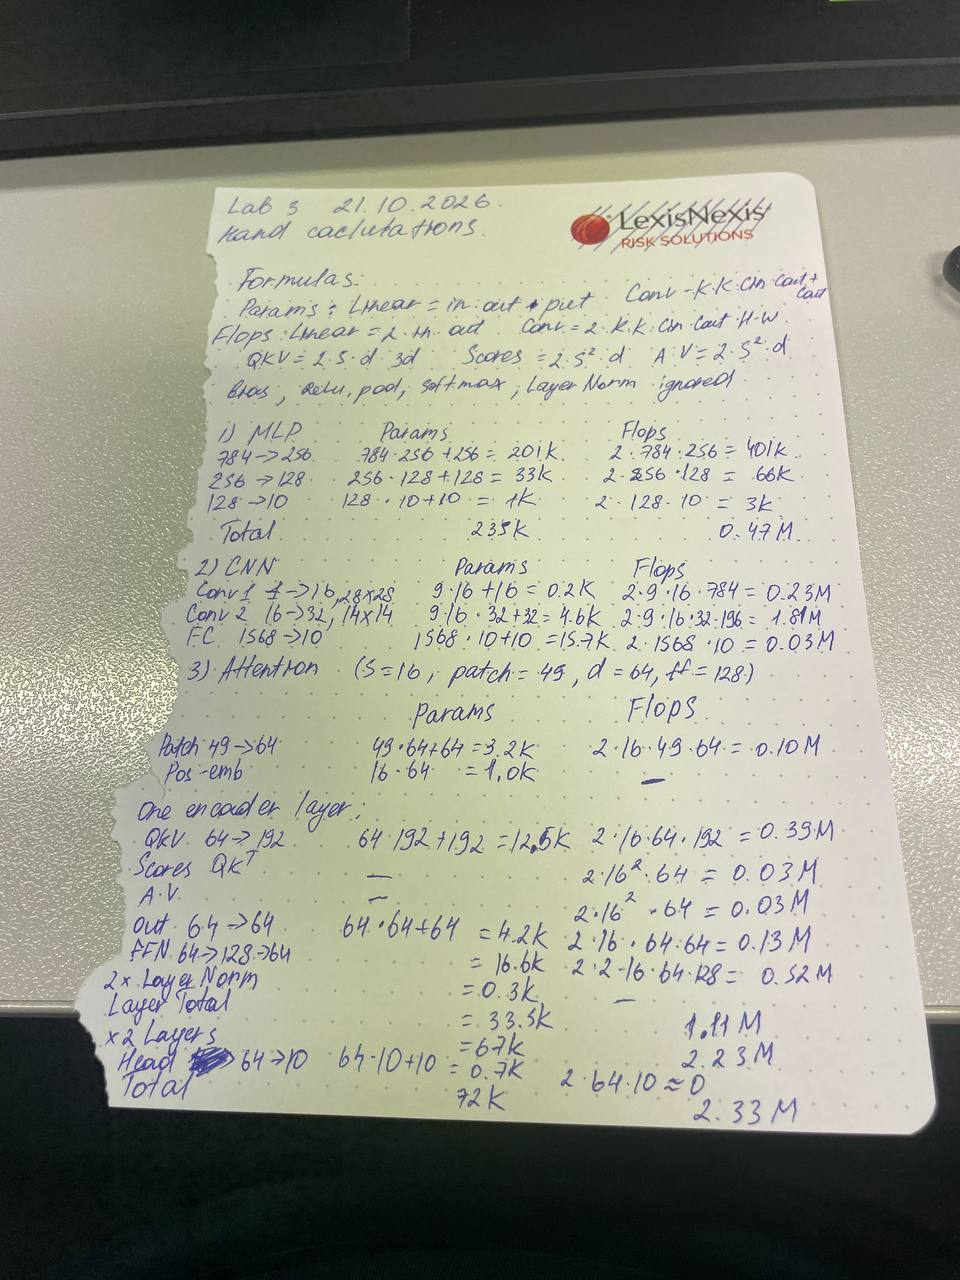
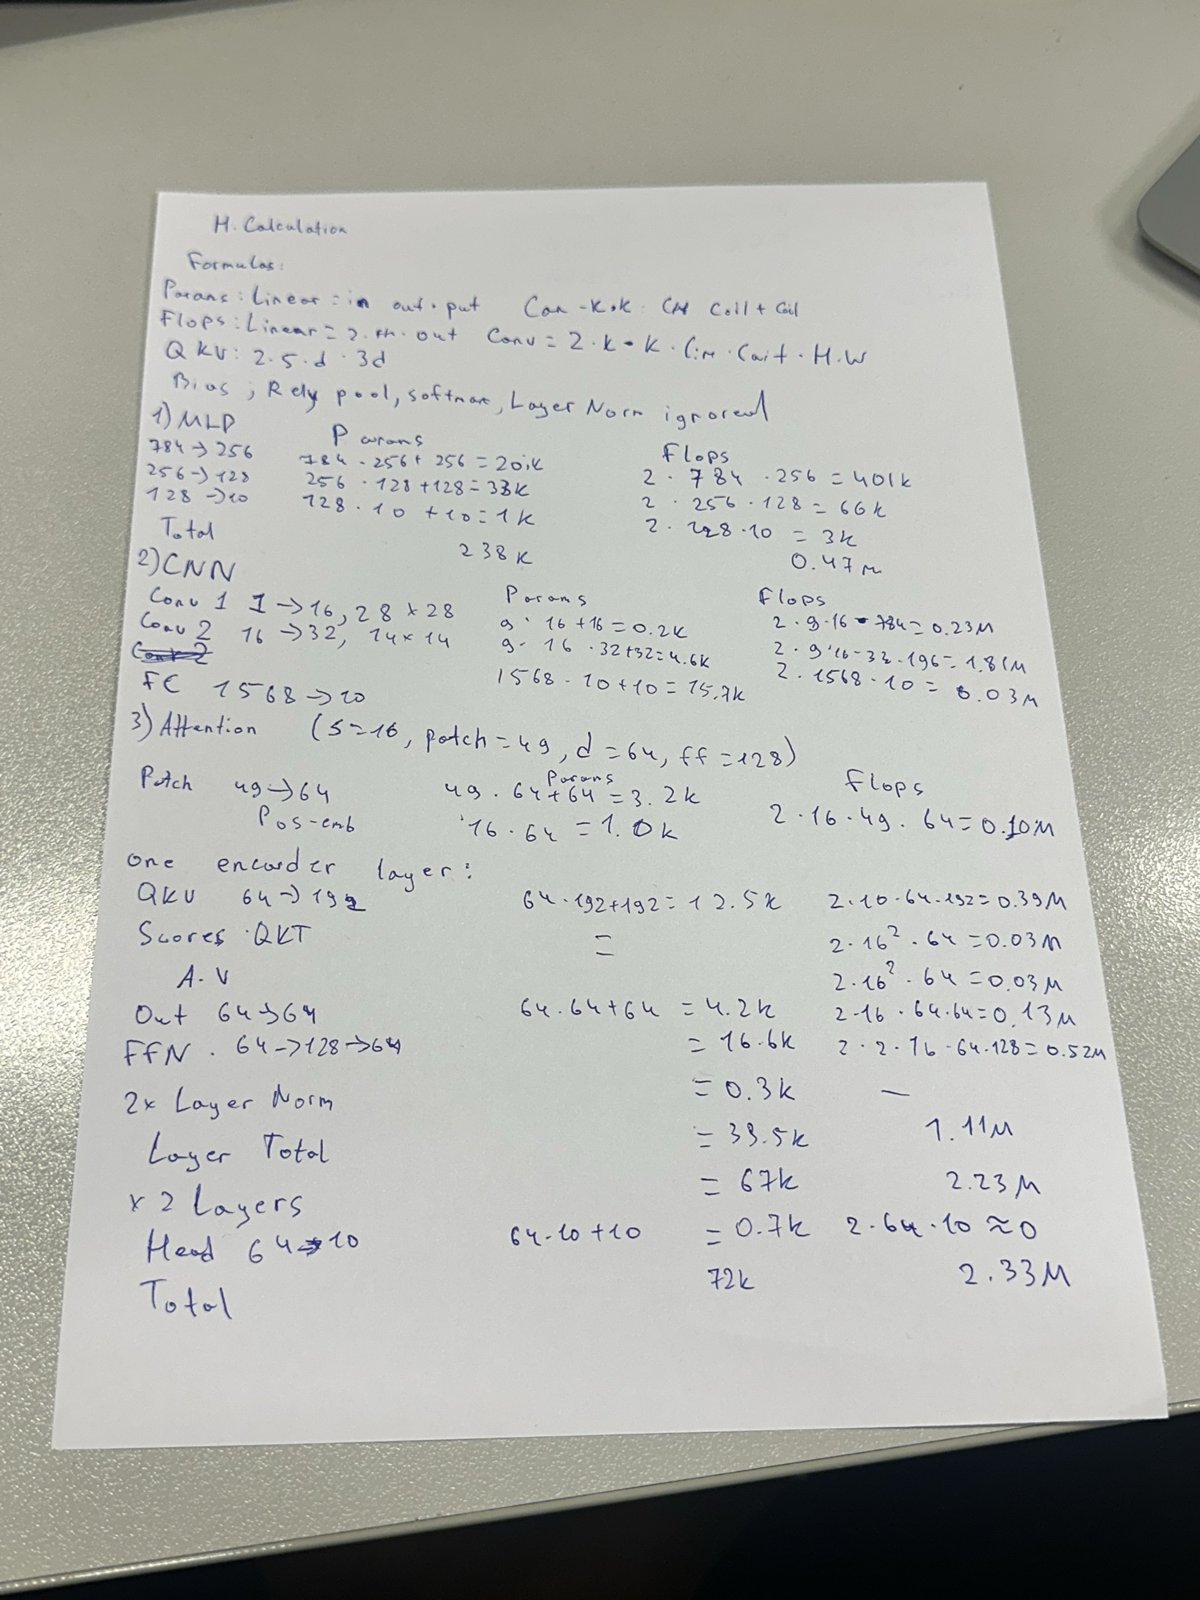
Lab 3: replace photos of the hand calculations

diff --git a/lab03/report.md b/lab03/report.md
@@ -24,7 +24,7 @@ I implemented the architectures exactly as specified. None of them lands in the 
 
 ### 3.1 Hand-calculated FLOPs (batch 1, FLOPs = 2 × MACs)
 
-The calculations were first done by hand on paper (21.10.2026). Photos: [page 1: formulas, per-layer params and FLOPs](hand_calculations/1_flops_and_params.jpg), [page 2: summary](hand_calculations/2_summary.jpg). The tables below are typed up from those pages.
+The calculations were first done by hand on paper. Photos: [page 1: formulas, per-layer params and FLOPs](hand_calculations/1_flops_and_params.jpg), [page 2: summary](hand_calculations/2_summary.jpg). The tables below are typed up from those pages.
 
 **MLP (Linear: 2 × in × out)**
 
